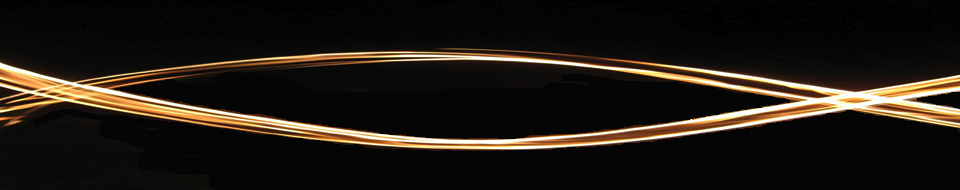
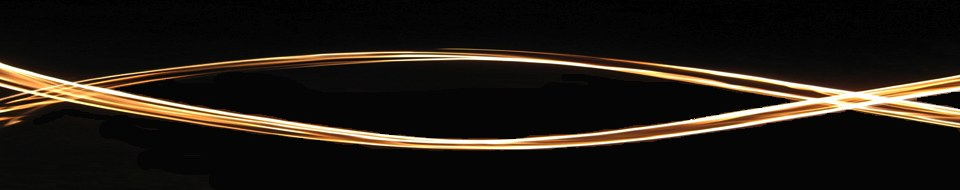
More image compressing. should drastically speed things up

diff --git a/app/controllers/artists_controller.rb b/app/controllers/artists_controller.rb
@@ -93,7 +93,7 @@ class ArtistsController < ApplicationController
     
   end
   def set_env
-    @banner = "banner1.png"
+    @banner = "banner.jpg"
   end
   protected
   

diff --git a/app/controllers/works_controller.rb b/app/controllers/works_controller.rb
@@ -126,7 +126,7 @@ class WorksController < ApplicationController
   end
 
   def set_env
-    @banner = "banner1.png"
+    @banner = "banner.jpg"
   end
   
   protected

diff --git a/app/controllers/events_controller.rb b/app/controllers/events_controller.rb
@@ -90,7 +90,7 @@ class EventsController < ApplicationController
   end
 
   def set_env
-    @banner = "banner1.png"
+    @banner = "banner.jpg"
   end
 
 

diff --git a/app/controllers/pages_controller.rb b/app/controllers/pages_controller.rb
@@ -27,7 +27,7 @@ class PagesController < ApplicationController
   end
 
 def set_env
-  @banner = "banner1.png"
+  @banner = "banner.jpg"
 end
 
 end
